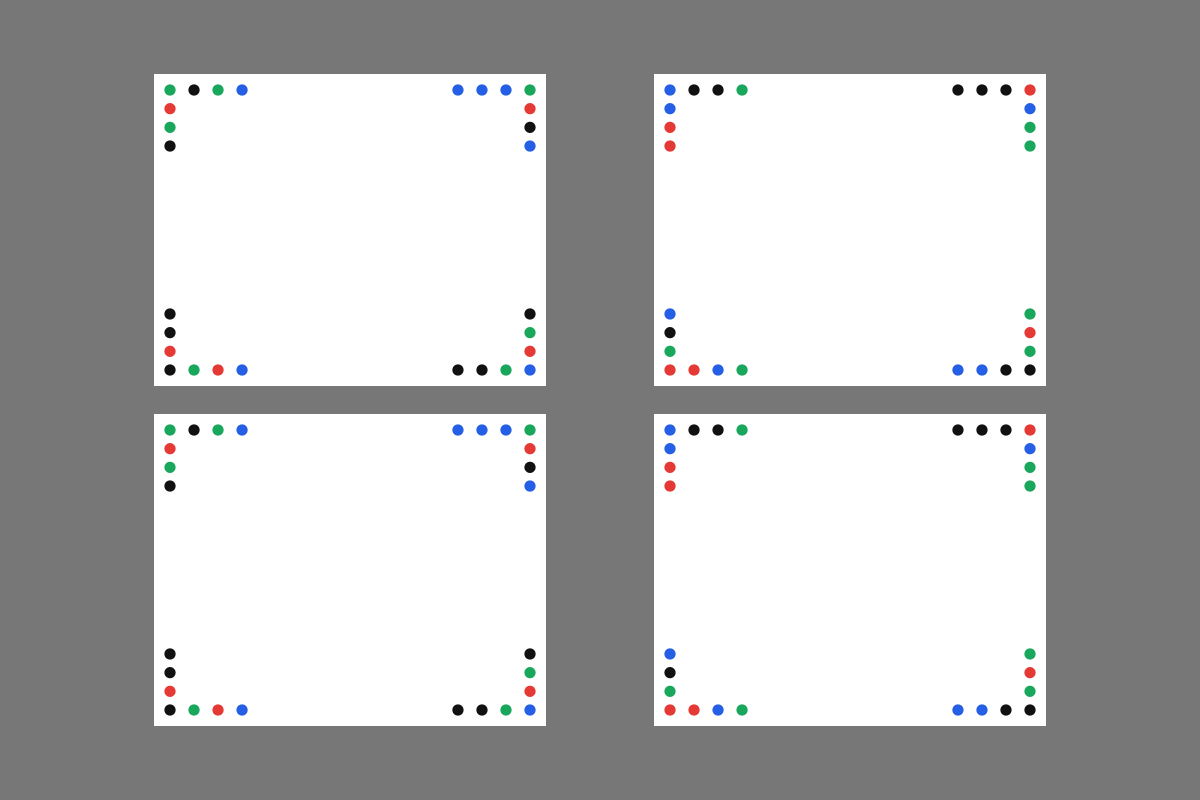
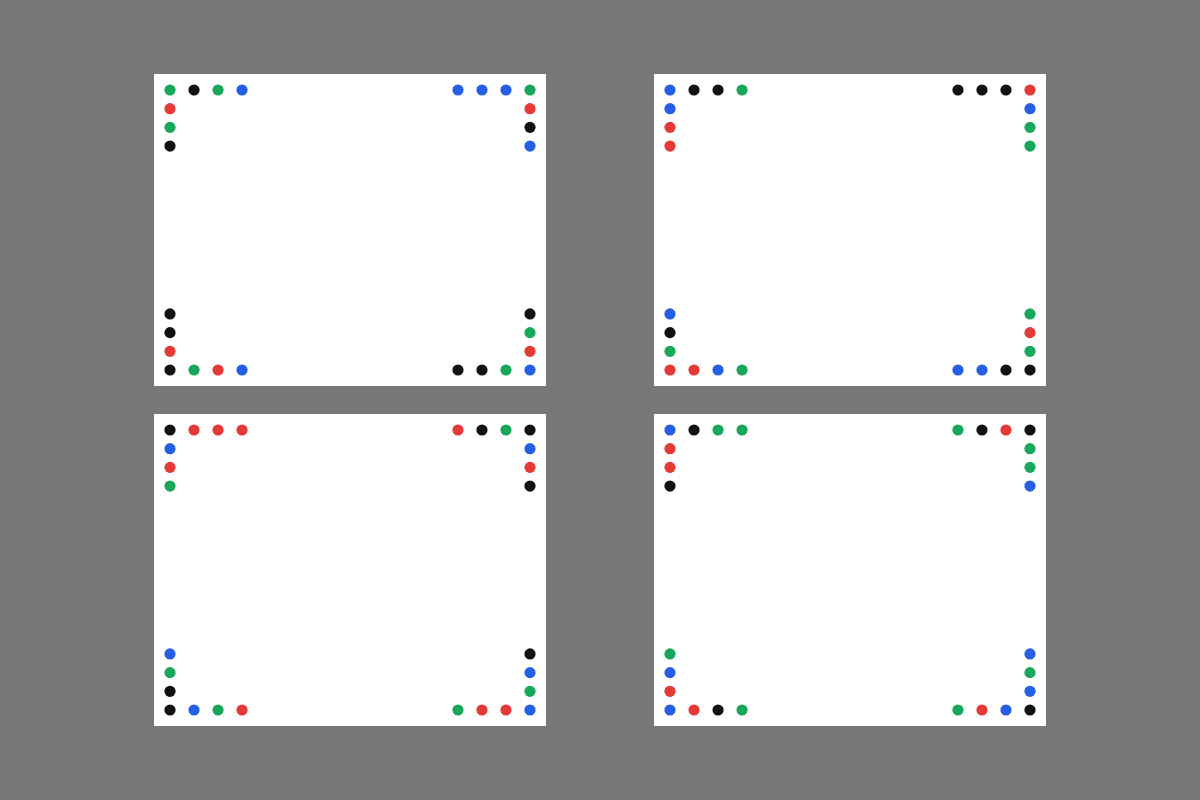
Give four colored-dot sheets distinct IDs and verify rendered tracking

diff --git a/docs/pixel-marker-test/targets.html b/docs/pixel-marker-test/targets.html
@@ -1,1 +1,1 @@
-<!doctype html><html lang="en"><meta name="viewport" content="width=device-width,initial-scale=1"><title>Paper tracking display targets</title><style>body{margin:0;background:#777;color:white;font:16px system-ui}#controls{padding:8px;background:#222}select,button,a{font:inherit;margin:4px;padding:8px}a{color:#7df}img{display:block;width:100vw;height:calc(100vh - 90px);object-fit:contain}body.move img{animation:move 5s infinite ease-in-out}@keyframes move{0%,100%{transform:rotate(-5deg) scale(.95) translateX(-2%)}50%{transform:rotate(5deg) scale(.85) translateX(2%)}}</style><div id="controls"><select id="method"><option value="l">Four L</option><option value="dots">Colored dots</option></select><select id="count"><option>2</option><option>4</option></select><select id="size"><option>large</option><option>medium</option><option>small</option></select><button id="motion">Motion on/off</button><button id="full">Fullscreen</button><a id="download" download>Download SVG</a><a id="png" download>Download PNG</a></div><img id="target"><script>function update(){const name=`${method.value}-${count.value}-${size.value}.svg`;target.src=name;download.href=name;png.href=name.replace(".svg",".png")}for(const x of [method,count,size])x.onchange=update;motion.onclick=()=>document.body.classList.toggle('move');full.onclick=()=>document.documentElement.requestFullscreen();update();</script></html>
+<!doctype html><html lang="en"><meta name="viewport" content="width=device-width,initial-scale=1"><title>Paper tracking display targets</title><style>body{margin:0;background:#777;color:white;font:16px system-ui}#controls{padding:8px;background:#222}select,button,a{font:inherit;margin:4px;padding:8px}a{color:#7df}img{display:block;width:100vw;height:calc(100vh - 90px);object-fit:contain}body.move img{animation:move 5s infinite ease-in-out}@keyframes move{0%,100%{transform:rotate(-5deg) scale(.95) translateX(-2%)}50%{transform:rotate(5deg) scale(.85) translateX(2%)}}</style><div id="controls"><select id="method"><option value="l">Four L</option><option value="dots">Colored dots</option></select><select id="count"><option>2</option><option>4</option></select><select id="size"><option>large</option><option>medium</option><option>small</option></select><button id="motion">Motion on/off</button><button id="full">Fullscreen</button><a id="download" download>Download SVG</a><a id="png" download>Download PNG</a></div><span id="ids"></span><img id="target"><script>function update(){const name=`${method.value}-${count.value}-${size.value}.svg`;target.src=name;ids.textContent=method.value==='dots'?(count.value==='4'?'Paper IDs: 7, 8, 9, 10':'Paper IDs: 7, 8'):'No paper IDs';download.href=name;png.href=name.replace(".svg",".png")}for(const x of [method,count,size])x.onchange=update;motion.onclick=()=>document.body.classList.toggle('move');full.onclick=()=>document.documentElement.requestFullscreen();update();</script></html>

diff --git a/docs/pixel-marker-test/verify-dot-ids.html b/docs/pixel-marker-test/verify-dot-ids.html
@@ -1,0 +1,9 @@
+<!doctype html><html lang="en"><meta charset="utf-8"><title>Four distinct dot ID fixture verification</title><pre id="results">Running…</pre><script type="module">
+import {ColoredDotsTracker} from './colored-dots.mjs';
+const contract=await(await fetch('./contract.json')).json();const tracker=new ColoredDotsTracker(contract),results=[];
+for(const count of [2,4])for(const size of ['large','medium','small'])for(const angle of [0,-5,5]){
+ const image=new Image();image.src=`dots-${count}-${size}.svg`;await image.decode();const canvas=document.createElement('canvas');canvas.width=960;canvas.height=640;const ctx=canvas.getContext('2d');ctx.fillStyle='#777';ctx.fillRect(0,0,960,640);ctx.translate(480,320);ctx.rotate(angle*Math.PI/180);ctx.scale(angle?.85:1,angle?.85:1);ctx.drawImage(image,-480,-320,960,640);
+ const ids=tracker.detect(ctx.getImageData(0,0,960,640)).map(x=>x.id).sort((a,b)=>a-b),expected=contract.markers.slice(0,count).map(x=>x.id);results.push({count,size,angle,ids,expected,pass:JSON.stringify(ids)===JSON.stringify(expected)});
+}
+const canvas=document.createElement('canvas');canvas.width=960;canvas.height=640;const ctx=canvas.getContext('2d');ctx.fillStyle='white';ctx.fillRect(0,0,960,640);results.push({name:'blank',pass:tracker.detect(ctx.getImageData(0,0,960,640)).length===0});window.dotVerification=results;document.querySelector('#results').textContent=JSON.stringify(results,null,2);
+</script></html>

diff --git a/docs/pixel-marker-test/README.md b/docs/pixel-marker-test/README.md
@@ -7,7 +7,7 @@ The camera must be served from HTTPS or localhost. No backend or image uploads a
 ## Detector boundaries
 
 - Four-L: dark concave L candidates grouped inside separate white regions; four candidates are required. Detection has no ID or persistent association. This is a JavaScript/OpenCV port of the optical experiment, not a native Quest detector.
-- Colored dots: existing independently implemented Dynamicland-inspired seven-dot corner code, IDs 7 and 8. For four-sheet examples each ID is repeated. White-region splitting allows spatial copies to be counted separately; this is **not four unique persistent IDs** and overlapping/joined pages can fail.
+- Colored dots: independently implemented Dynamicland-inspired seven-dot corner codes. Two-sheet targets use IDs 7 and 8; four-sheet targets use distinct IDs 7, 8, 9 and 10. Each ID has four unique corner words; all 16 words are separated by at least three color positions. Duplicate IDs remain unsupported for persistent identity.
 - Green outlines show current-frame planar corner estimates. No metric 3D pose, calibrated accuracy, independent ground truth, or robustness guarantee is claimed.
 - Processing downsizes input to at most 960 pixels wide and runs at approximately 8 Hz or slower on slower devices. The camera may have higher native resolution.
 - Camera processing and memory are released with **Stop camera**. Reload if camera permission was denied, and allow access through browser site settings.
@@ -17,3 +17,7 @@ The camera must be served from HTTPS or localhost. No backend or image uploads a
 Headless Chrome with the actual OpenCV.js build detects the expected count for all 12 SVG targets (2 methods × 2 counts × 3 sizes). A simulated browser media device verifies start, processing and stop. Zero page JavaScript errors were observed. This verifies browser plumbing and rendered fixtures, **not physical Pixel camera tracking**. Physical-phone testing remains the user's on-device test.
 
 Serve locally for development: `python3 -m http.server 8000 --directory docs`, then open `http://localhost:8000/pixel-marker-test/`.
+
+## Four distinct IDs update
+
+Four-sheet downloads now encode IDs **7, 8, 9, 10**, not repeated 7/8. The display selector reports the active IDs. The shared `contract.json` is used by both fixtures and camera detector. Open [fixture verification](./verify-dot-ids.html) to run 18 rendered cases (2/4 sheets, three sizes, 0/±5 degrees and 0.85 scale for rotated cases) plus a blank rejection at the camera processing width of 960 pixels. These pass with exact expected IDs. This is synthetic browser validation, not new optical Pixel accuracy evidence. Reload both pages to replace previously cached targets. Duplicate IDs and persistent identity across occlusion remain outside this update.
